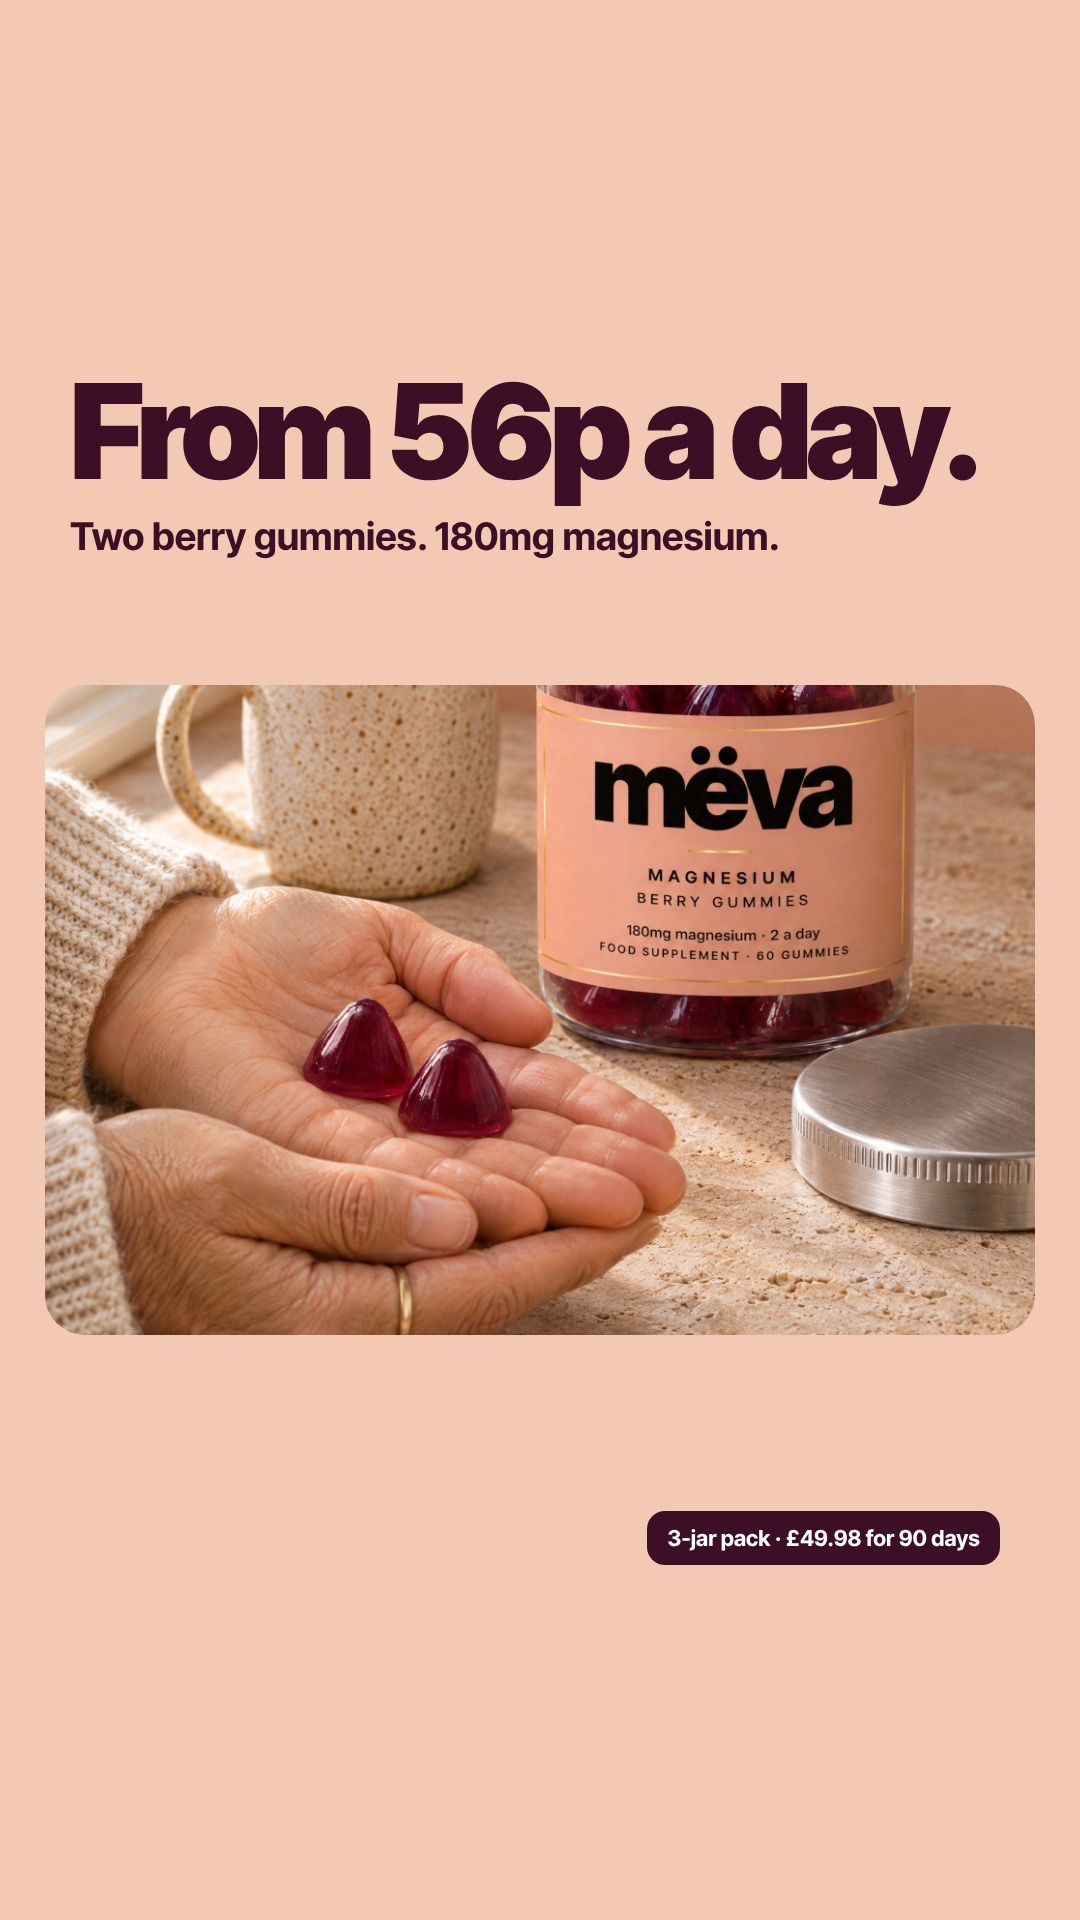
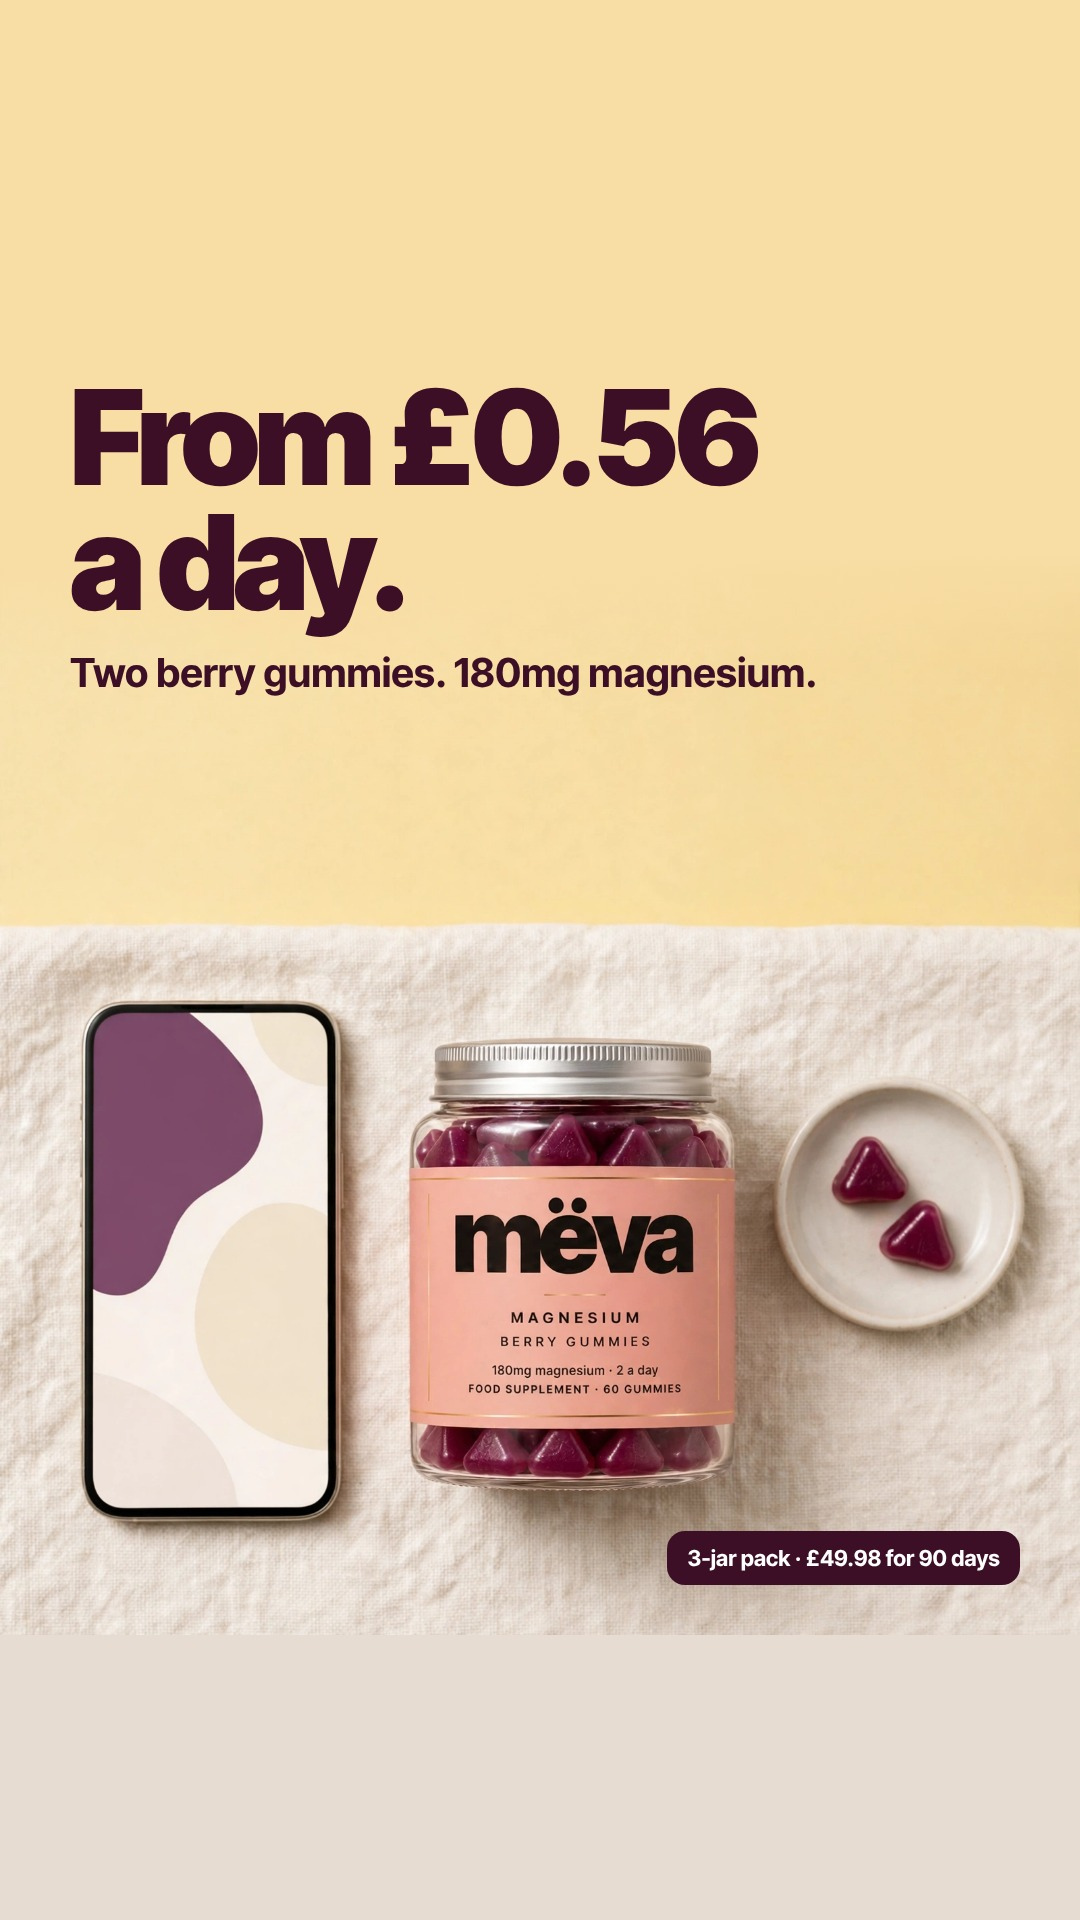
Mëva ads: C1 flatlay, £0.56 a day
Claude-Session: https://claude.ai/code/session_01WXdKv1YfkNwKWVtsSuXmEc

diff --git a/meva/ads/2026-11-13-angles.md b/meva/ads/2026-11-13-angles.md
@@ -79,7 +79,7 @@
 
 | ID | Template | On-image text | Hook line (primary text) | Visual |
 |---|---|---|---|---|
-| C1 | Headline statement | **From 56p a day.** Two berry gummies. 180mg magnesium. (small: 3-jar pack) | Less than a biscuit a day. Honestly. | The jar plus two gummies in a palm |
+| C1 | Headline statement | **From £0.56 a day.** Two berry gummies. 180mg magnesium. (small: 3-jar pack) | Less than a biscuit a day. Honestly. | The jar plus two gummies in a palm |
 | C2 | Callout (guarantee) | **Not for you? We'll refund your first jar.** No need to finish it. | Try it without the risk. | The jar with a "30 days" seal in the style of the site's ppromise block |
 | C3 | Grid (bundle) | **3 jars for the price of 2.** Free UK delivery. | 90 days of magnesium, sorted. | Three jars side by side, £49.98 tag |
 | C4 | FAQ card | **Q: What does the No Drama Club cost?** A: Nothing. And the first 500 get 20% off a single jar. | Joining is free. That's the whole catch. | Cream card with Q&A, small jar |

diff --git a/meva/ads/r1-copy.md b/meva/ads/r1-copy.md
@@ -84,7 +84,7 @@
 
    Join the No Drama Club for free. Nothing to pay today.
 
-2. 3 jars for the price of 2, with free UK delivery. That's 90 days of magnesium from 56p a day.
+2. 3 jars for the price of 2, with free UK delivery. That's 90 days of magnesium from £0.56 a day.
 
    Two ripe red berry gummies, 180mg magnesium. Magnesium contributes to the reduction of tiredness and fatigue.
 
